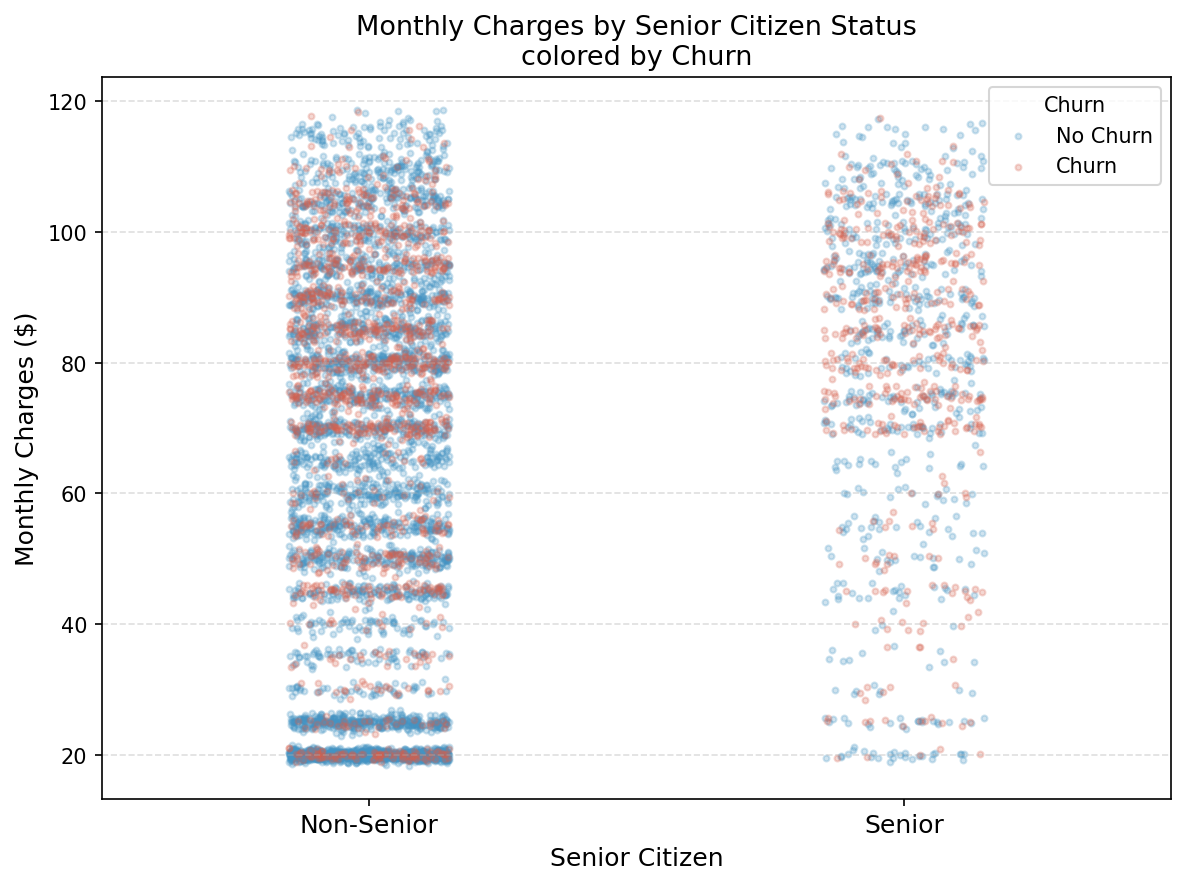
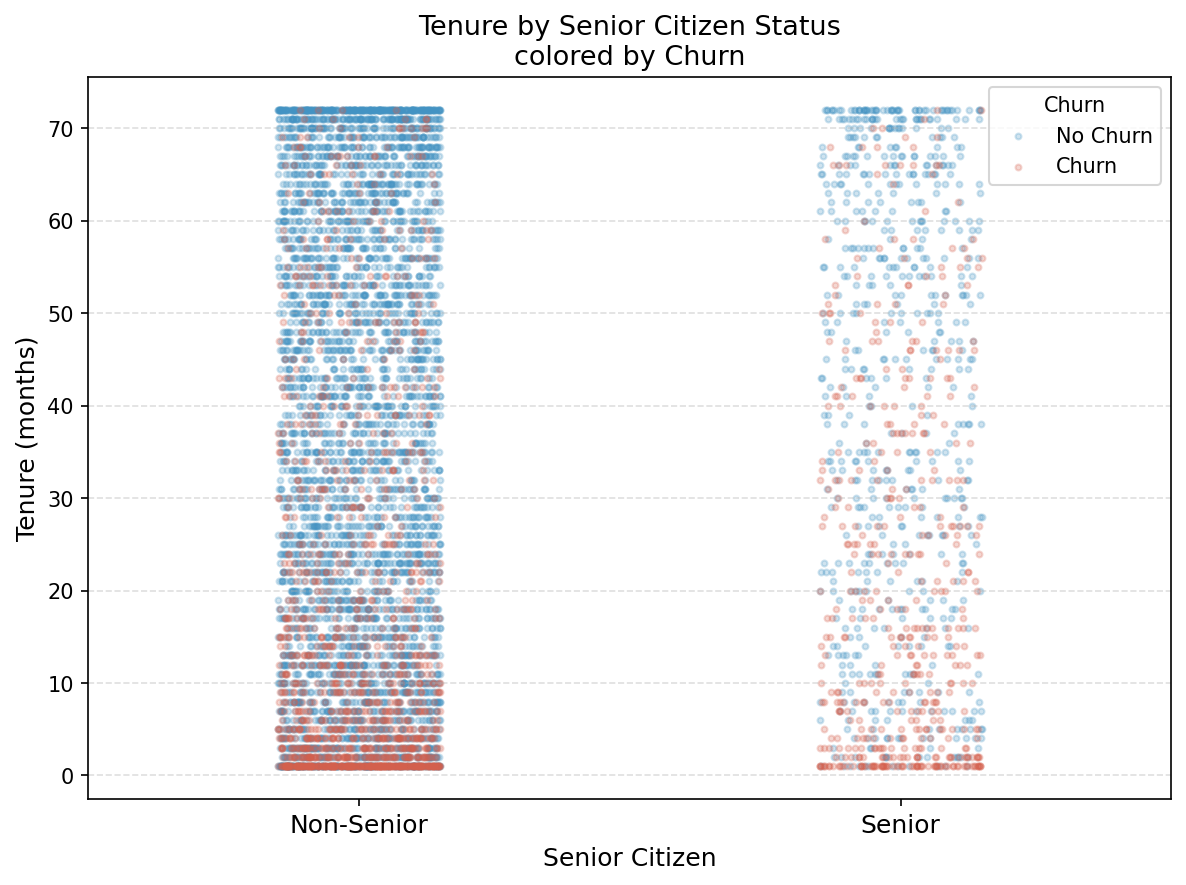
fix: switch y-axis from monthly charges to tenure

diff --git a/plots/senior_monthly_charges.py b/plots/senior_monthly_charges.py
@@ -25,7 +25,7 @@ for churn_val in [0, 1]:
         jitter = rng.uniform(-0.15, 0.15, n)
         ax.scatter(
             senior_val + jitter,
-            df.loc[mask, "monthly_charges"],
+            df.loc[mask, "tenure"],
             color=colors[churn_val],
             alpha=0.25,
             s=8,
@@ -35,8 +35,8 @@ for churn_val in [0, 1]:
 ax.set_xticks([0, 1])
 ax.set_xticklabels([x_labels[0], x_labels[1]], fontsize=12)
 ax.set_xlabel("Senior Citizen", fontsize=12)
-ax.set_ylabel("Monthly Charges ($)", fontsize=12)
-ax.set_title("Monthly Charges by Senior Citizen Status\ncolored by Churn", fontsize=13)
+ax.set_ylabel("Tenure (months)", fontsize=12)
+ax.set_title("Tenure by Senior Citizen Status\ncolored by Churn", fontsize=13)
 ax.legend(title="Churn", fontsize=10, title_fontsize=10)
 ax.grid(axis="y", linestyle="--", alpha=0.4)
 ax.set_xlim(-0.5, 1.5)
